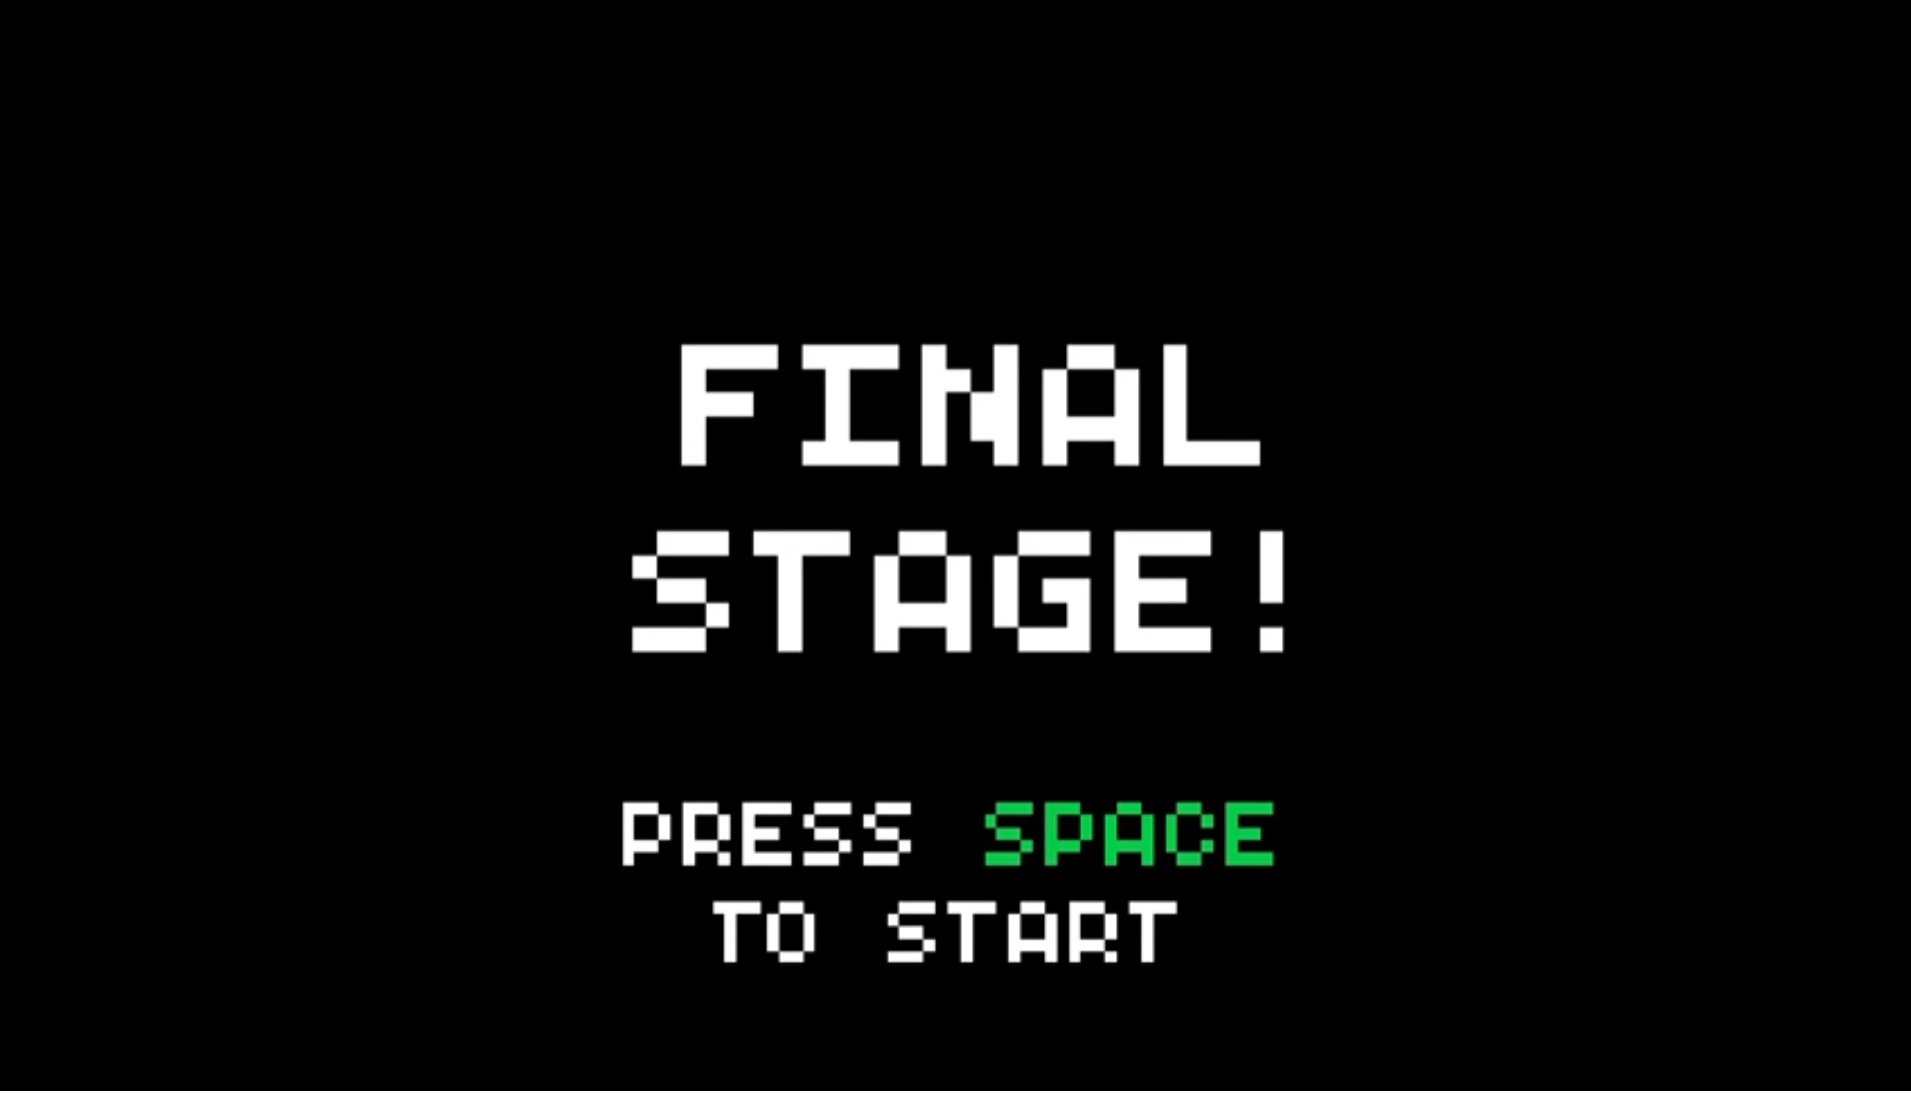
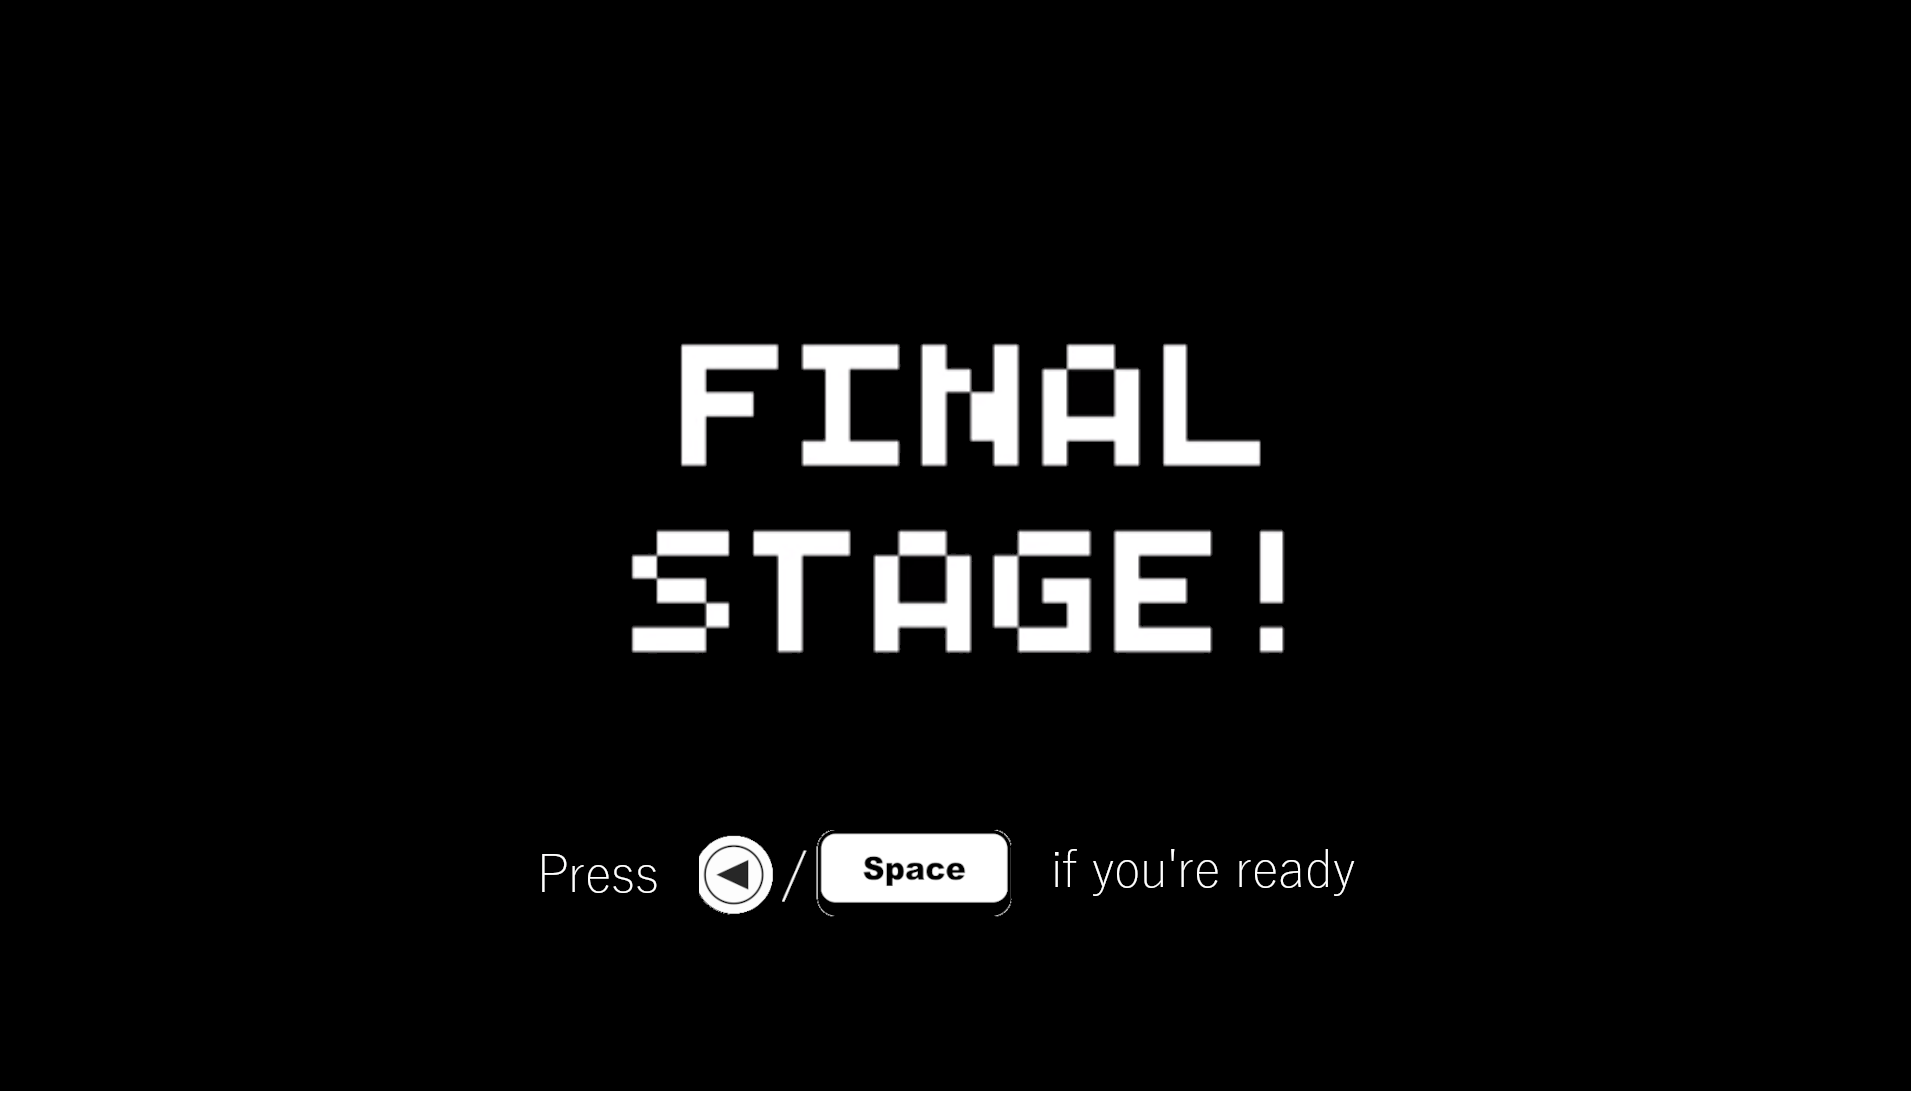
manette control

Changed region(s): [[0.2779, 0.7155, 0.7101, 0.9021]]

diff --git a/Splatt/Lunar_GroundContainer.cpp b/Splatt/Lunar_GroundContainer.cpp
@@ -2,7 +2,8 @@
 
 GroundContainer::GroundContainer(RenderWindow& _window)
 {
-	mNbLvl = 0;
+	mStartNewGame = true;
+	mNbLvl = 1;
 	mLvlCanChange = true;
 	mIsOnDS = false;
 	mPosition = Vector2f(_window.getSize().x / 2, _window.getSize().y / 2);
@@ -12,26 +13,7 @@ GroundContainer::GroundContainer(RenderWindow& _window)
 void GroundContainer::Update(RenderWindow& _window)
 {
 	if (mLvlCanChange)
-	{
-		if (mNbLvl == 0)
-			Start();
-		else if(mNbLvl > 0)
-			ChangeLevel(_window);
-	}
-}
-
-void GroundContainer::Start()
-{
-	if (!mMyImage.loadFromFile("../ressources/Lunar_lander/Lunar_Lander_Menu.png"))
-		exit(EXIT_FAILURE);
-
-	mMyTexture.loadFromImage(mMyImage);
-	mMySprite.setTexture(mMyTexture);
-	mMySprite.setOrigin(mMySprite.getGlobalBounds().width / 2, mMySprite.getGlobalBounds().height / 2);
-	mMySprite.setPosition(mPosition);
-
-	if (Keyboard::isKeyPressed(Keyboard::Space))
-		mNbLvl++;
+		ChangeLevel(_window);
 }
 
 void GroundContainer::GoToNextLvl(RenderWindow& _window)
@@ -70,7 +52,7 @@ void GroundContainer::ChangeLevel(RenderWindow& _window)
 		mLvlCanChange = true;
 		mMyImage.loadFromFile("../ressources/Lunar_lander/Lunar_final_stage.png");
 
-		if (Keyboard::isKeyPressed(Keyboard::Space))
+		if (isButtonPressed(Action::Lunar_Select))
 			mNbLvl++;
 	}
 	
@@ -98,14 +80,13 @@ void GroundContainer::DeathScreen(RenderWindow& _window)
 	mMySprite.setPosition(mPosition);
 
 	mLvlCanChange = true;
+}
 
-	if (Keyboard::isKeyPressed(Keyboard::Space))
-	{
-		mNbLvl = 0;
-		mIsOnDS = false;
-		mStartNewGame = true;
-	}
-
+void GroundContainer::ResetLevel()
+{
+	mNbLvl = 0;
+	mIsOnDS = false;
+	mStartNewGame = true;
 }
 
 void GroundContainer::Display(RenderWindow& _window)

diff --git a/Splatt/Lunar_GroundContainer.h b/Splatt/Lunar_GroundContainer.h
@@ -1,6 +1,7 @@
 #pragma once
 #include "Tools.hpp"
 #include "StateManager.hpp"
+#include "Controles.h"
 
 #include "pch.h"
 
@@ -21,10 +22,10 @@ class GroundContainer
 public:
 	GroundContainer(RenderWindow& _window);
 	void Update(RenderWindow& _window);
-	void Start();
 	void GoToNextLvl(RenderWindow& _window);
 	void ChangeLevel(RenderWindow& _window);
 	void DeathScreen(RenderWindow& _window);
+	void ResetLevel();
 	void Display(RenderWindow& _window);
 
 	Image& GetImage();

diff --git a/Splatt/Controles.cpp b/Splatt/Controles.cpp
@@ -148,6 +148,5 @@ void InitControles()
 	controles.push_back(Controle(Action::Lunar_Reset, sf::Keyboard::R, true, gamepadPS4::Y));
 	controles.push_back(Controle(Action::Lunar_Pause, sf::Keyboard::Escape, true, gamepadPS4::Start));
 	controles.push_back(Controle(Action::Lunar_Select, sf::Keyboard::Space, true, gamepadPS4::Select));
-
 	controles.push_back(Controle(Action::Lunar_ReturnMenu, sf::Keyboard::Q, true, gamepadPS4::B));
 }

diff --git a/Splatt/Lunar_manager.cpp b/Splatt/Lunar_manager.cpp
@@ -15,7 +15,6 @@ Lunar_manager::Lunar_manager(RenderWindow& _window)
 	player = new Lander(App);
 	mPause = false;
 
-	ShaderInit();
 	TextInit(_window);
 }
 
@@ -173,7 +172,7 @@ void Lunar_manager::DisplayPauseMenu()
 
 	App.draw(mMySprite);
 
-	if (isButtonPressed(Action::Lunar_Pause))
+	if (isButtonPressed(Action::Lunar_Select))
 		mPause = false;
 }
 

diff --git a/Splatt/Lunar_player.cpp b/Splatt/Lunar_player.cpp
@@ -53,7 +53,14 @@ void Lander::Update(RenderWindow& _window, GroundContainer& _myContainer)
 	else
 	{
 		if (mNbLifePoints <= 0 || !HasFuel())
+		{
 			_myContainer.DeathScreen(_window);
+
+			mIsAlive = false;
+
+			if (isButtonPressed(Action::Lunar_Select))
+				_myContainer.ResetLevel();
+		}
 		else
 			ResetPlayer();
 	}
